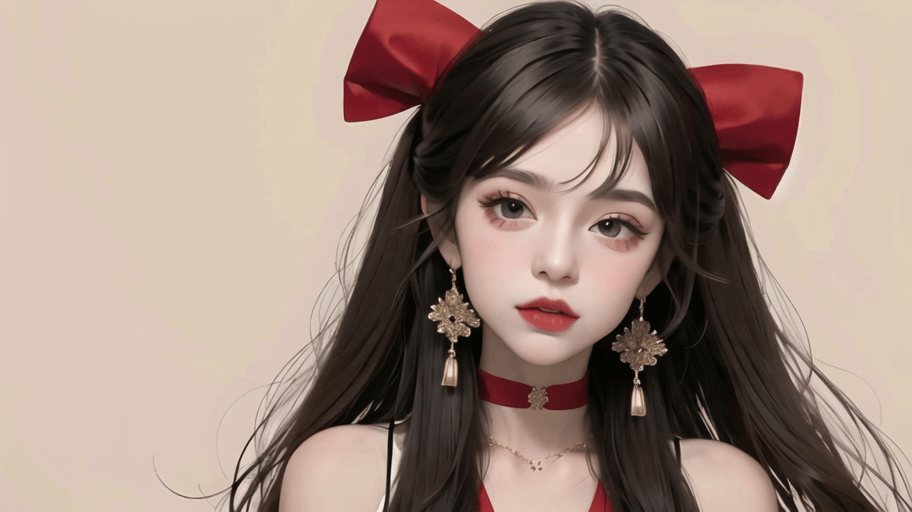
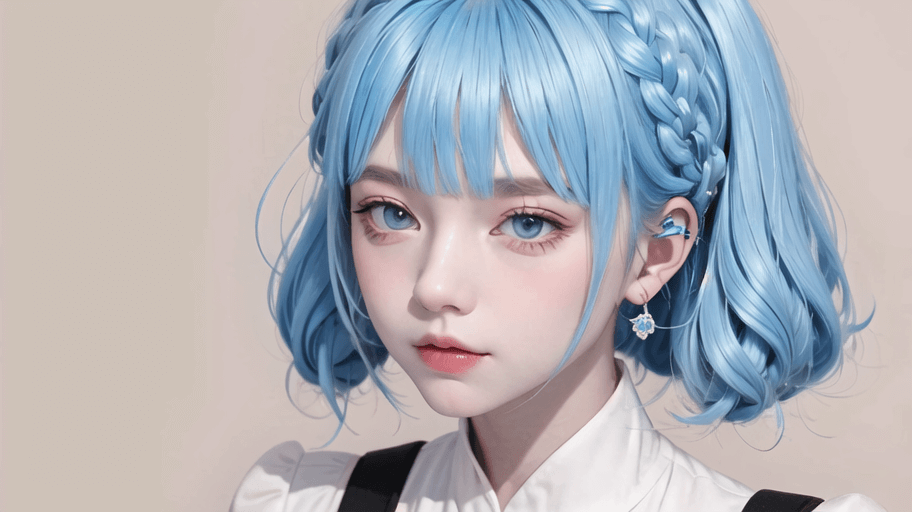
feat: 🎸 换图啊

diff --git a/src/views/canvas/2/utils/CanvasDrawMain.ts b/src/views/canvas/2/utils/CanvasDrawMain.ts
@@ -96,6 +96,7 @@ class CanvasDrawMain {
   genAudioInfo (src) {
     const audio = document.createElement('audio')
     // audio video 无onLoad事件
+    // audio.innerHTML = `<source src="${src}">`
     audio.src = src
     audio.preload = 'auto'
     return audio
@@ -146,6 +147,7 @@ class CanvasDrawMain {
         this.angle += i
         if (this.angle % 60 === 0) {
           i++
+          console.log(this.audios[i % this.audioMax])
           this.audios[i % this.audioMax].play()
         }
         this.draw()

diff --git a/src/views/canvas/1/utils/CanvasDrawMask.ts b/src/views/canvas/1/utils/CanvasDrawMask.ts
@@ -86,6 +86,7 @@ class CanvasDrawMask {
   genAudioInfo (src) {
     const audio = document.createElement('audio')
     // audio video 无onLoad事件
+    // audio.innerHTML = `<source src="${src}">`
     audio.src = src
     audio.preload = 'auto'
     return audio
